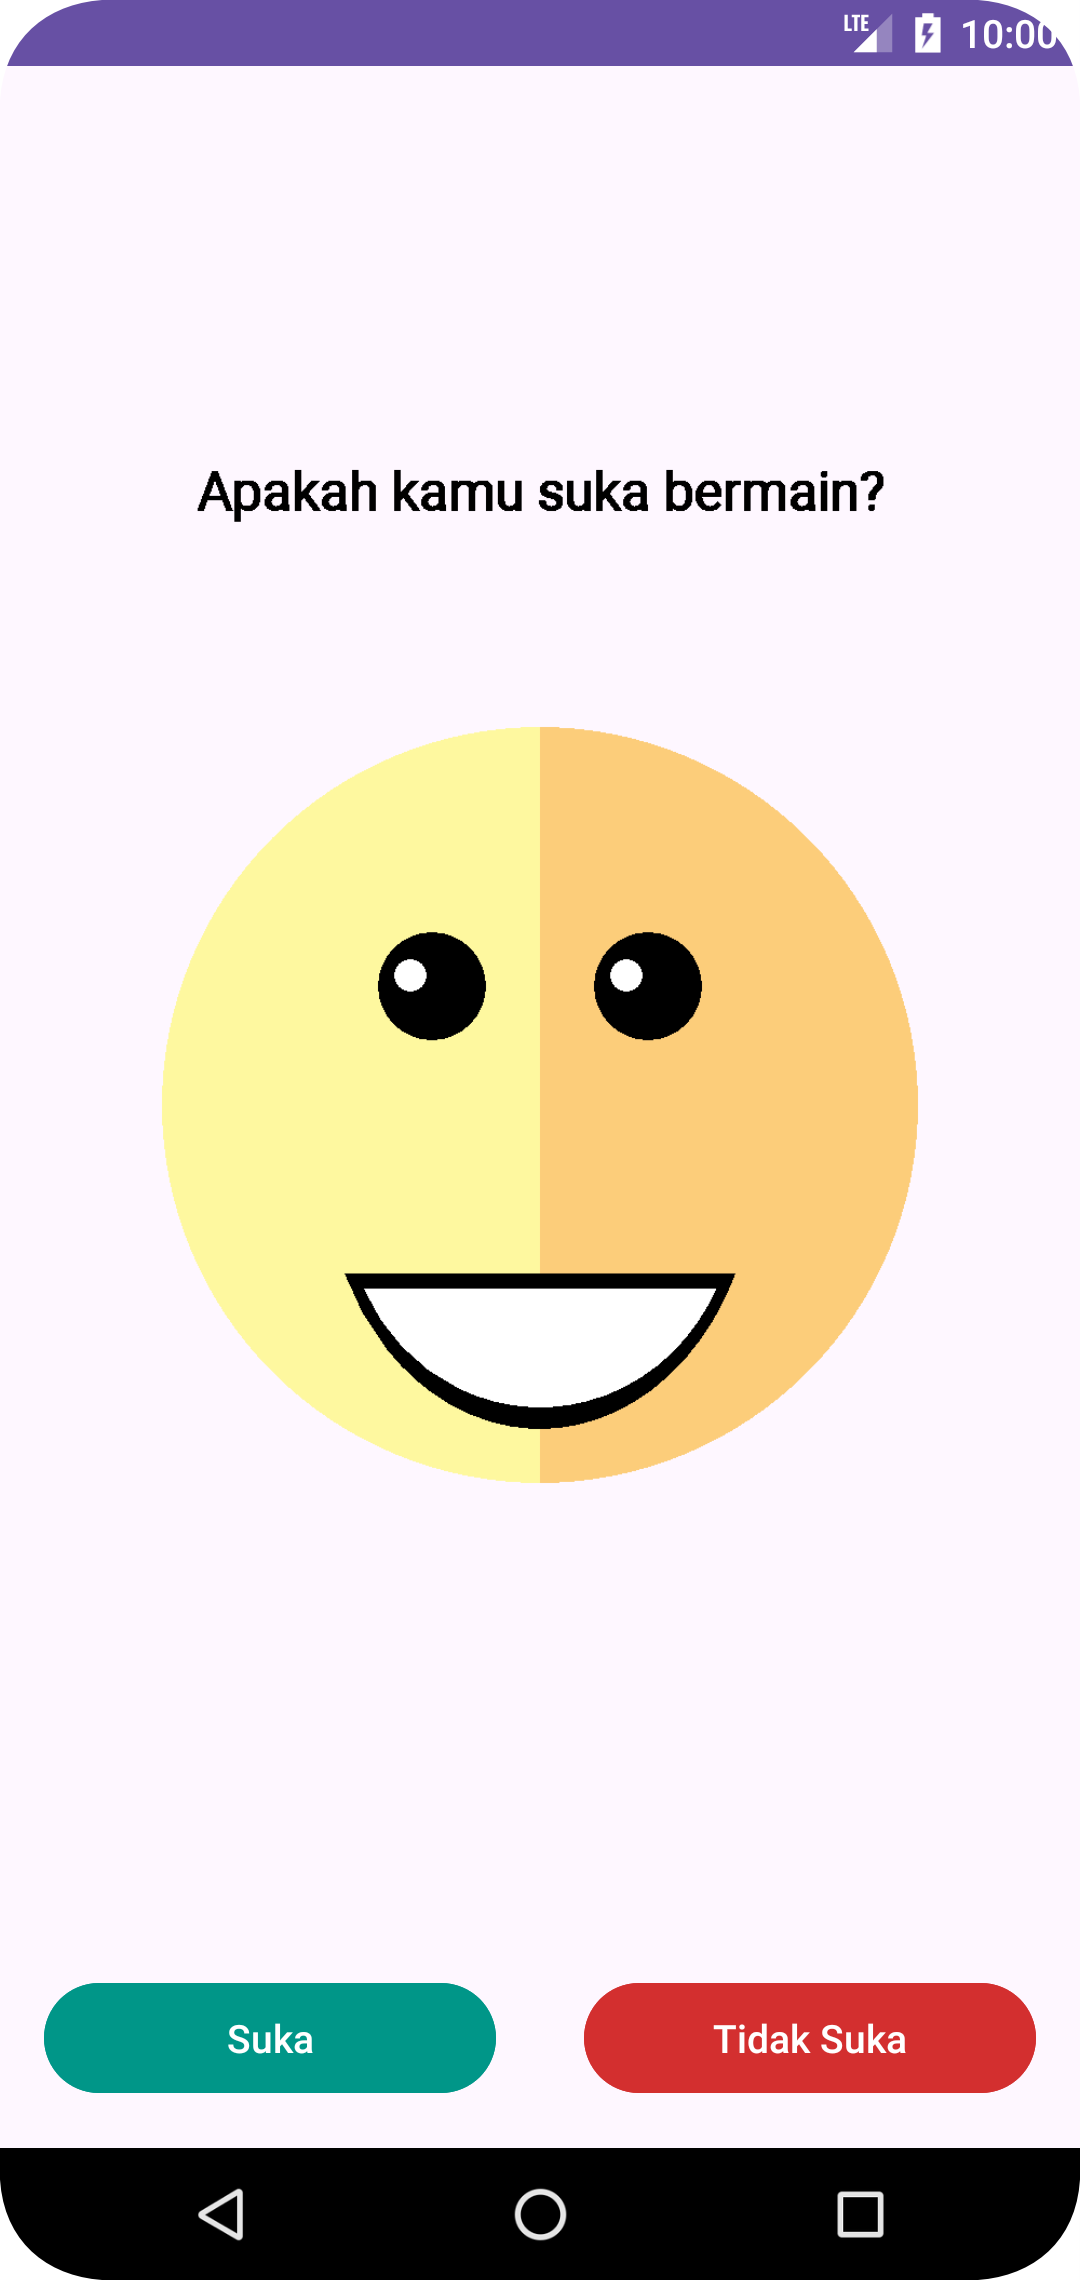
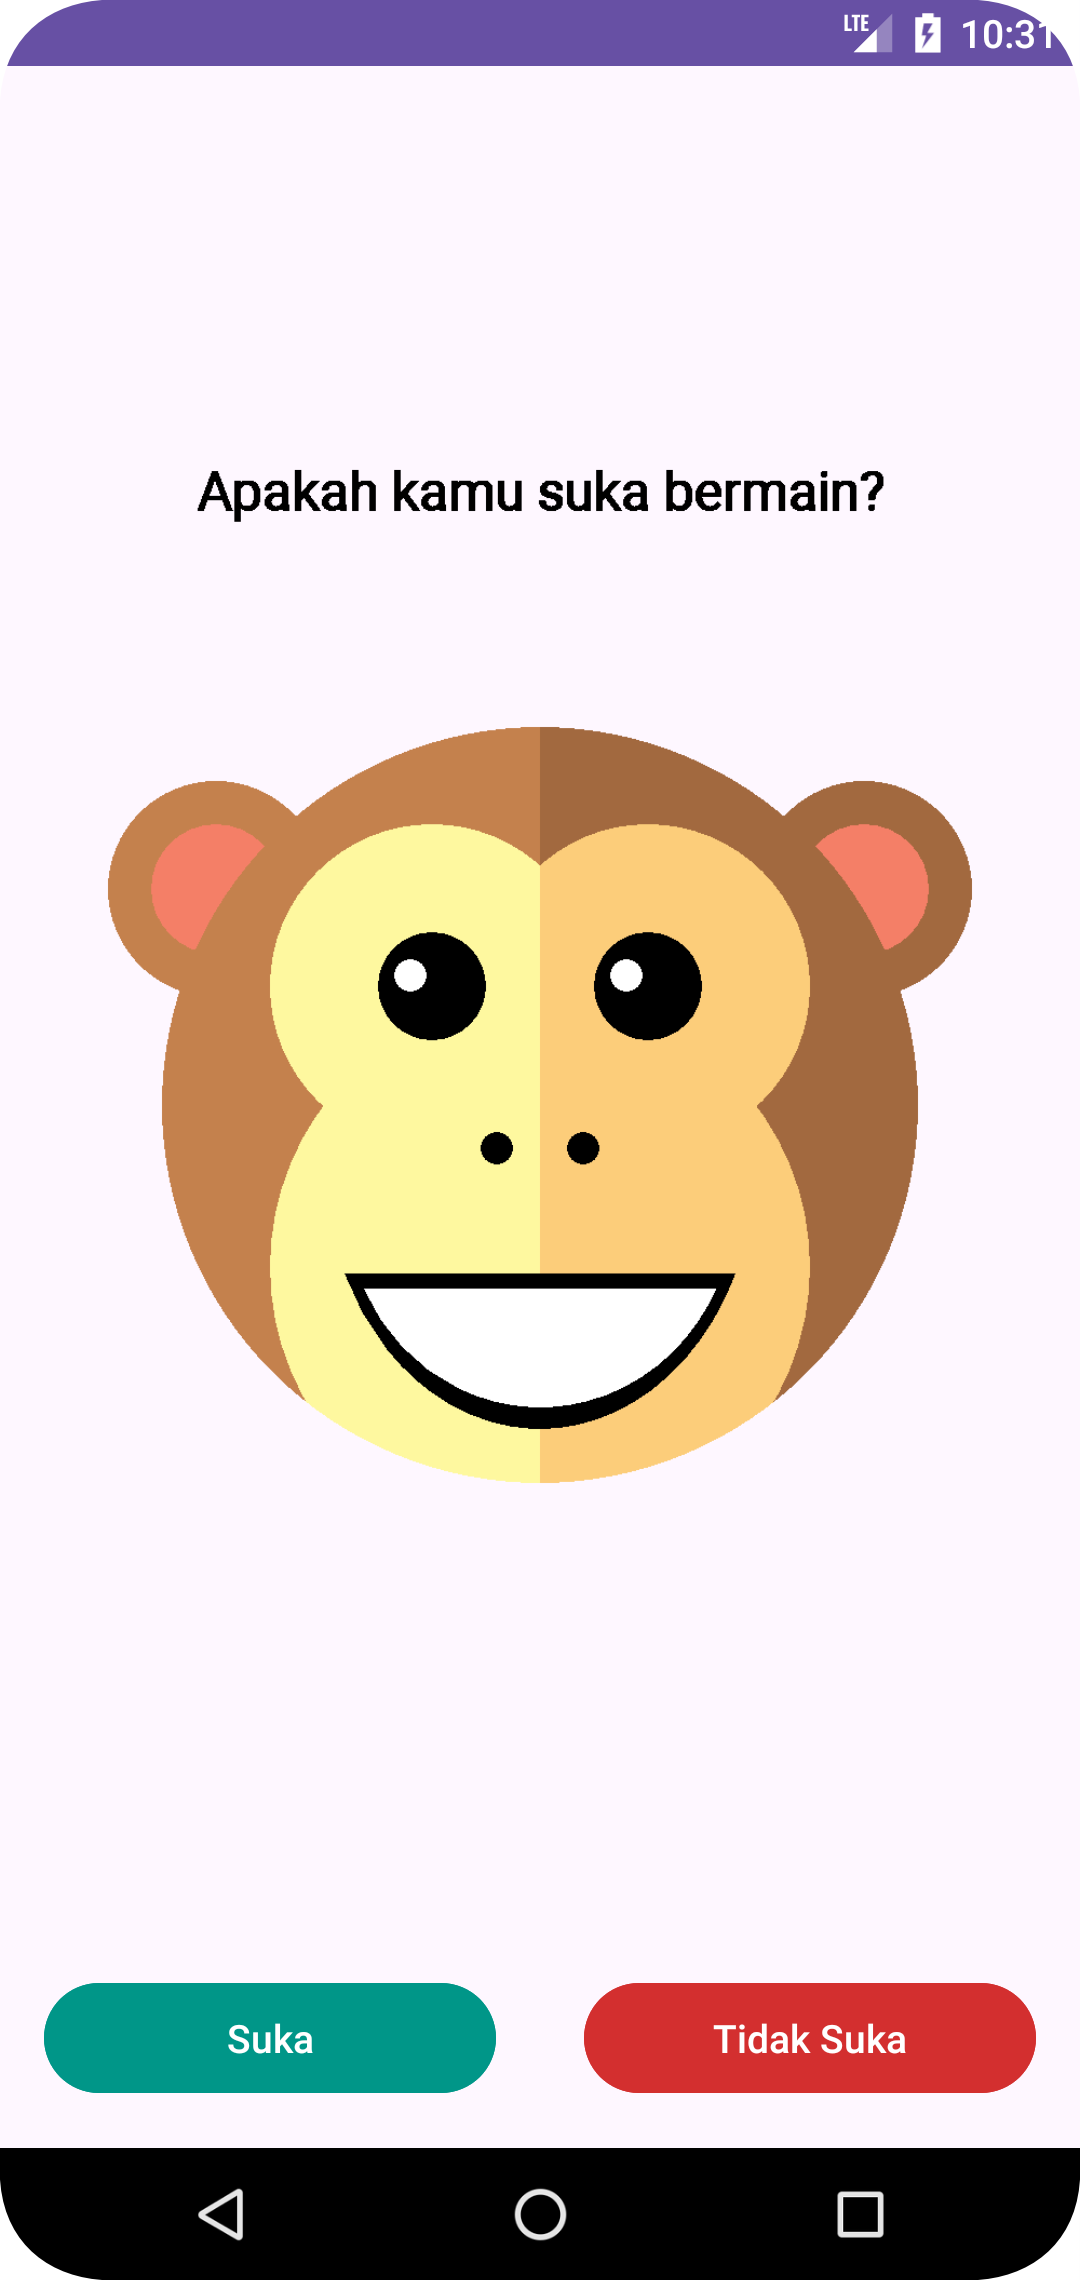
Practice Clipping Object Canvas

diff --git a/app/src/main/java/com/kisahcode/androidintermediate/MainActivity.kt b/app/src/main/java/com/kisahcode/androidintermediate/MainActivity.kt
@@ -1,6 +1,7 @@
 package com.kisahcode.androidintermediate
 
 import android.graphics.*
+import android.os.Build
 import androidx.appcompat.app.AppCompatActivity
 import android.os.Bundle
 import androidx.core.content.res.ResourcesCompat
@@ -46,15 +47,21 @@ class MainActivity : AppCompatActivity() {
         // Set click listeners for buttons
         binding.like.setOnClickListener {
             // Show a happy face
+            showEars()
             showFace()
             showMouth(true)
             showEyes()
+            showNose()
+            showHair()
         }
         binding.dislike.setOnClickListener {
             // Show a sad face
+            showEars()
             showFace()
             showMouth(false)
             showEyes()
+            showNose()
+            showHair()
         }
     }
 
@@ -198,5 +205,93 @@ class MainActivity : AppCompatActivity() {
         val y = 50F
         // Draw the message text on the canvas at the calculated position (x, y) using the Paint object
         mCanvas.drawText(message, x, y, mPaintText)
+    }
+
+    /**
+     * Draws the nose on the canvas.
+     *
+     * This function draws two circles representing the nose on the canvas.
+     */
+    private fun showNose() {
+        // Set the paint color to black
+        mPaint.color = ResourcesCompat.getColor(resources, R.color.black, null)
+        // Draw a circle for the left nostril
+        mCanvas.drawCircle(halfOfWidth - 40F, halfOfHeight + 140F, 15F, mPaint)
+        // Draw a circle for the right nostril
+        mCanvas.drawCircle(halfOfWidth + 40F, halfOfHeight + 140F, 15F, mPaint)
+    }
+
+    /**
+     * Draws the ears on the canvas.
+     *
+     * This function draws two circles representing the ears on the canvas.
+     * Each ear consists of an outer circle and an inner circle.
+     */
+    private fun showEars() {
+        // Draw the left ear
+        // Set the paint color for the left outer ear
+        mPaint.color = ResourcesCompat.getColor(resources, R.color.brown_left_hair, null)
+        // Draw the outer circle of the left ear
+        mCanvas.drawCircle(halfOfWidth - 300F, halfOfHeight - 100F, 100F, mPaint)
+
+        // Draw the right ear
+        // Set the paint color for the right outer ear
+        mPaint.color = ResourcesCompat.getColor(resources, R.color.brown_right_hair, null)
+        // Draw the outer circle of the right ear
+        mCanvas.drawCircle(halfOfWidth + 300F, halfOfHeight - 100F, 100F, mPaint)
+
+        // Draw the inner part of the ears
+        // Set the paint color for the inner part of the ears
+        mPaint.color = ResourcesCompat.getColor(resources, R.color.red_ear, null)
+        // Draw the inner circle of the left ear
+        mCanvas.drawCircle(halfOfWidth - 300F, halfOfHeight - 100F, 60F, mPaint)
+        // Draw the inner circle of the right ear
+        mCanvas.drawCircle(halfOfWidth + 300F, halfOfHeight - 100F, 60F, mPaint)
+    }
+
+    /**
+     * Draws the hair on the canvas.
+     *
+     * This function clips the canvas using a path to create a circular area for the head,
+     * and then draws the hair outside that circular area.
+     */
+    private fun showHair() {
+        // Save the current state of the canvas
+        mCanvas.save()
+
+        // Create a path to define the circular area for the head
+        val path = Path()
+        path.addCircle(halfOfWidth - 100F,halfOfHeight - 10F, 150F, Path.Direction.CCW)
+        path.addCircle(halfOfWidth + 100F,halfOfHeight - 10F, 150F, Path.Direction.CCW)
+
+        // Add an oval shape to the path to cover the area below the head (for the hair)
+        val mouth = RectF(halfOfWidth - 250F, halfOfHeight, halfOfWidth + 250F, halfOfHeight + 500F)
+        path.addOval(mouth, Path.Direction.CCW)
+
+        // Clip the canvas using the path to create the circular area for the head
+        // and exclude the area for the hair
+        if (Build.VERSION.SDK_INT < Build.VERSION_CODES.O) {
+            // For API levels below Oreo, clip the canvas using the path
+            mCanvas.clipPath(path, Region.Op.DIFFERENCE)
+        } else {
+            // For Oreo and above, use clipOutPath() to exclude the area defined by the path
+            mCanvas.clipOutPath(path)
+        }
+
+        val face = RectF(left, top, right, bottom)
+
+        // Draw the hair outside the circular area for the head
+        // Set the paint color for the left side of the hair
+        mPaint.color = ResourcesCompat.getColor(resources, R.color.brown_left_hair, null)
+        // Draw the left side of the hair
+        mCanvas.drawArc(face, 90F, 180F, false, mPaint)
+
+        // Set the paint color for the right side of the hair
+        mPaint.color = ResourcesCompat.getColor(resources, R.color.brown_right_hair, null)
+        // Draw the right side of the hair
+        mCanvas.drawArc(face, 270F, 180F, false, mPaint)
+
+        // Restore the canvas to its previous state
+        mCanvas.restore()
     }
 }

diff --git a/README.md b/README.md
@@ -1,4 +1,4 @@
-# Drawing Practice with Canvas
+#  Practice Clipping Object Canvas
 
 This repository used for learning:
 
